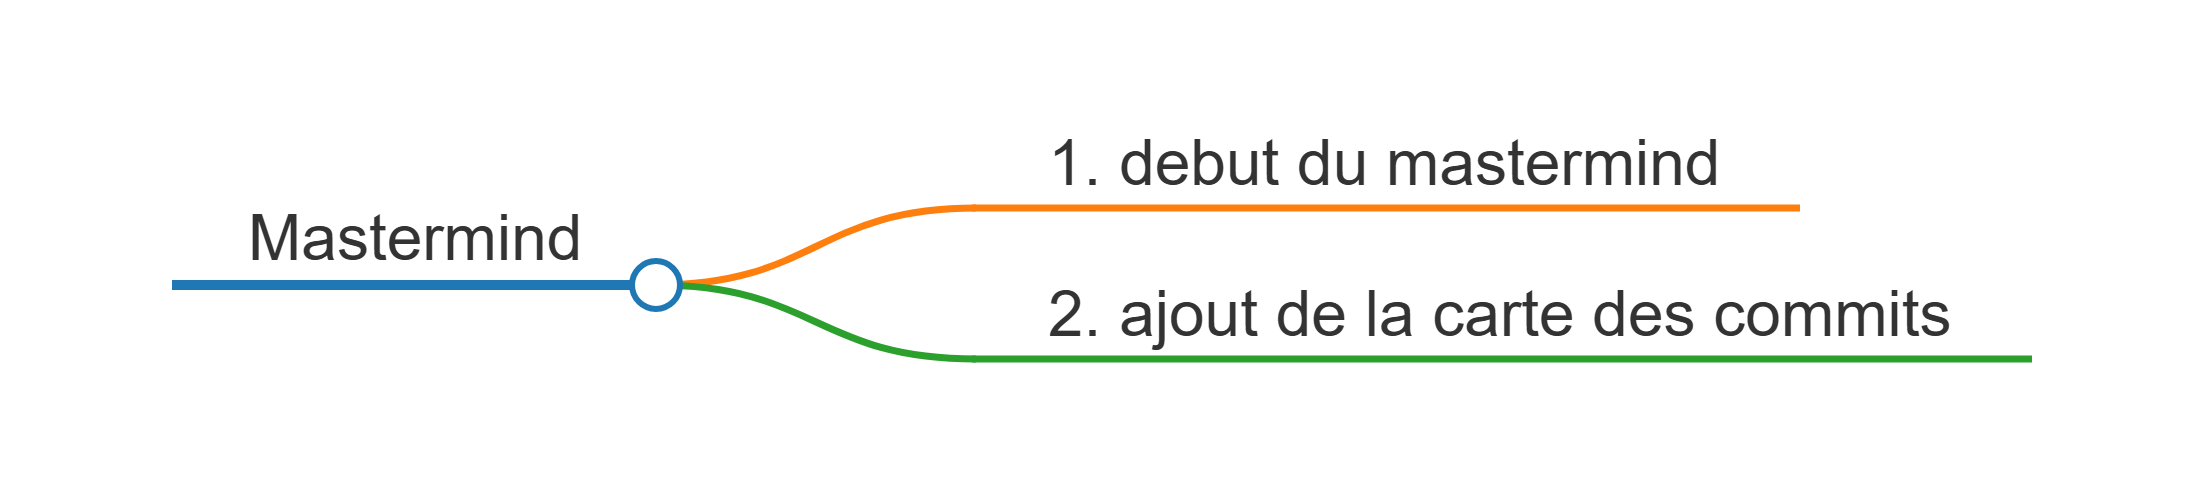
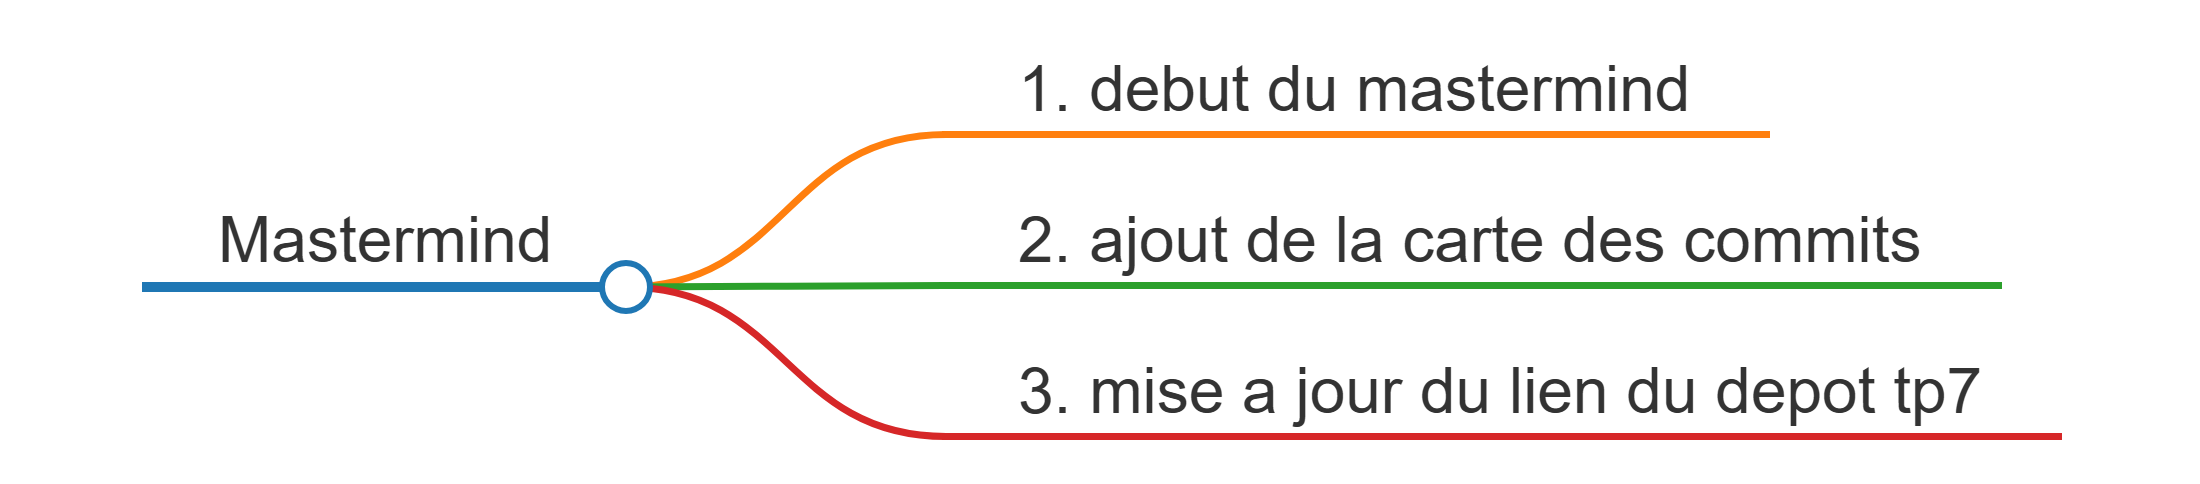
mise a jour du lien du depot tp7

Changed region(s): [[0.0927, 0.1562, 0.9582, 0.9375], [0.3709, 0.8125, 0.4018, 0.875], [0.0618, 0.5625, 0.0927, 0.625]]

diff --git a/README.md b/README.md
@@ -1,1 +1,1 @@
-[![Carte des commits](docs/commits.png)](https://github.com/caroneloham/polytech-dijon-soutien/commits/main/)
+[![Carte des commits](docs/commits.png)](https://github.com/caroneloham/polytech-dijon-soutien-tp7/commits/main/)

diff --git a/docs/commits.md b/docs/commits.md
@@ -3,3 +3,5 @@
 ## 1. debut du mastermind
 
 ## 2. ajout de la carte des commits
+
+## 3. mise a jour du lien du depot tp7
